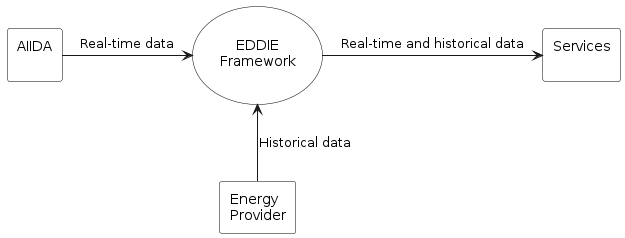
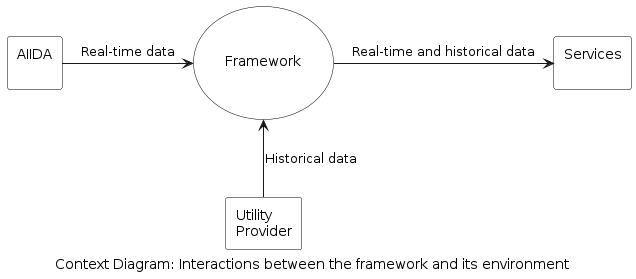
Minor revisions in section 3

diff --git a/arc42/03-context-and-scope/index.md b/arc42/03-context-and-scope/index.md
@@ -30,24 +30,24 @@ From a business perspective, the system consists of four entities which are show
 <img src="./figures/context-diagram.png" width="700" alt="test">
 </div>
 
-This context diagram shows how the EDDIE framework (in the center of the figure) interacts with its environment. Three other entities are part of the system:
+This context diagram shows how the Framework (in the center of the figure) interacts with its environment. Three other entities are part of the system:
 
 1. AIIDA (Administrative Interface for In-house Data Access)
-1. Energy provider 
+1. Utility provider 
 1. Services
 
 The table below shows a description of all the entities of the context diagram.
 
 | Component | Description | Within Scope |
 |-|-|-|
-| AIIDA | Aggregates real-time data from an energy metering device (e.g., a smart meter or an IoT home automation system), and sends this data to the EDDIE framework. | &#x2611; Yes | 
-| Energy provider | Provides historical data about the energy consumption of an energy consumer (e.g., energy consumption within a house). | &#x2612; No|
-| EDDIE framework | Aggregates energy data from AIIDA and the energy provider (can be multiple instances of AIIDA and energy providers), and consolidates it. | &#x2611; Yes |
-| Services | Acquire consolidated data from the EDDIE framework and use it to generate value, e.g., using data analysis services that are based on statistics, machine learning, and artificial intelligence approaches. | &#x2612; No |
+| AIIDA | Collects real-time data from an energy metering device (e.g., a smart meter or an IoT home automation system), and sends this data to the Framework. | &#x2611; Yes | 
+| Utility provider | Provides historical data about the energy consumption of an energy consumer (e.g., energy consumption within a house). | &#x2612; No|
+| Framework | Collects energy data from AIIDA and the utility provider (can be multiple instances of AIIDA and utility providers), and consolidates it. | &#x2611; Yes |
+| Services | Acquire consolidated data from the Framework and use it to generate value, e.g., using data analysis services that are based on statistics, machine learning, and artificial intelligence techniques. | &#x2612; No |
 
-The figure above shows how the services of an eligible party can acquire real-time data (from AIIDA) and historical data (from the energy provider) using the EDDIE framework. The eligible party is then expected to process this data using services (as discussed in quality goal No. 2 mentioned in Section [Introduction and Goals](../01-introduction-and-goals/index.md)). Interestingly, an energy provider can also act as an eligible party that aggregates energy data and processes it using the existing services. This way, a consumer can use services that are offered by any energy provider in the same or different country (as discussed in quality goal No. 2 mentioned in Section [Introduction and Goals](/arc42/01-introduction-and-goals/index.md)).
+The figure above shows how the services of an eligible party can acquire real-time data (from AIIDA) and historical data (from the utility provider) using the Framework. The eligible party is then expected to process this data using services (as discussed in quality goal No. 2 mentioned in Section [Introduction and Goals](../01-introduction-and-goals/index.md)). Interestingly, a utility provider can also act as an eligible party that collects energy data and processes it using existing services. This way, a consumer can use services that are offered by any utility provider in the same or different country (as discussed in quality goal No. 2 mentioned in Section [Introduction and Goals](/arc42/01-introduction-and-goals/index.md)).
 
-Notably, **one eligible party must be able to use one instance of an EDDIE framework to communicate with one or more instances of AIIDA and energy providers**. This way, the eligible party can aggregate data from multiple consumers thereby being able to implement services that leverage large datasets of energy information (i.e., not only from one consumer).
+Notably, **one eligible party deploys one instance of the Framework to communicate with one or more instances of AIIDA and utility providers**. This way, the eligible party collects data from multiple consumers thereby being able to implement services that leverage large datasets with energy information (i.e., not only from one consumer).
 
 ## Technical Context 
 
@@ -56,10 +56,10 @@ Notably, **one eligible party must be able to use one instance of an EDDIE frame
 E.g. UML deployment diagram describing channels to neighboring systems, together with a mapping table showing the relationships between channels and input/output. -->
 
 From a technical perspective, the system includes four types of nodes which are:
-1. Smart Meter: A device installed in a house by the energy provider, which measures data about the energy consumption of the house, and exposes this data via a P1 port.
-1. In-house Device: A device such as a raspberry Pi that connects to the smart meter via a P1 port, and implements the Docker Runtime for executing applications.
+1. Smart Meter: A device installed in a house by the utility provider, which measures data about the energy consumption of the house, and exposes this data via a P1 port.
+1. In-house Device: A device such as a Raspberry Pi that connects to the smart meter via a P1 port, and implements the Docker Runtime for executing applications.
 1. Eligible Party Infrastructure: Either on-premise or cloud-based computing infrastructure that implements the Docker Runtime for executing applications.
-1. Energy Provider Infrastructure: The infrastructure of the energy provider that is assumed to provide HTTP interfaces for various processes, e.g., for exposing historical energy consumption data.
+1. Regional Data Sharing Infrastructure: This infrastructure provides an API for various processes including exposing historical energy consumption data. Interestingly, this infrastructure may be provided by the utility provider or a regional Metered Data Administrator.
 
 The figure below shows the associations between artifacts and interfaces as well as the communication protocols of these interfaces.
 
@@ -72,18 +72,15 @@ The following table shows a description of the artifacts.
 
 | Artifact | Description |
 |-|-|
-| AIIDA | Implements the functionality to acquire real-time data from the smart meter via P1, and send this data to the EDDIE Framework via a Kafka interface. |
-| EDDIE Framework| Implements functionality to receive real-time data from one or more AIIDA instances via a Kafka interface. Also, to acquire historical data from one or more energy providers via HTTP. |
-| Services | Implement functionality to acquire large datasets of real-time and historical data via a Kafka interface, and to process this data using data minining and machine learning algorithms. The implementation of the services is out of scope of this document.
+| AIIDA | Implements the functionality to acquire real-time data from the smart meter via P1, and send this data to the Framework via a Kafka interface. |
+| Framework| Implements functionality to receive real-time data from one or more AIIDA instances via a Kafka interface. Also, to acquire historical data from one or more regional data sharing infrastructures via the provided API, e.g., via HTTP. |
+| Services | Implement functionality to acquire real-time and historical data via a Kafka interface, and to process this data using data minining and machine learning algorithms. The implementation of the services is out of scope of this document.
 
 The table below shows a summary of the interfaces.
 
 | Interface | Provided by | Consumed by | Protocol |
 |-|-|-|-|
 | Smart Meter Interface | Smart meter| AIIDA | P1 |
-| EDDIE Framework Interface | EDDIE Framework | AIIDA | Kafka |
-| EDDIE Framework Interface | EDDIE Framework | Services | Kafka |
-| Energy Provider Interfaces | Energy Provider | EDDIE Framework | HTTP |
-
-A description of how the artifacts operate in order to achieve their goal (e.g., what is the procedure for the EDDIE Framework to acquire historical data) is presented in Section [Solution Strategy](/04-solution-strategy/README.md).
-
+| Framework Interface | Framework | AIIDA | Kafka |
+| Framework Interface | Framework | Services | Kafka |
+| Regional Data Sharing Infrastructure Interface | Utility provider | Framework | May vary (e.g., HTTP) |
